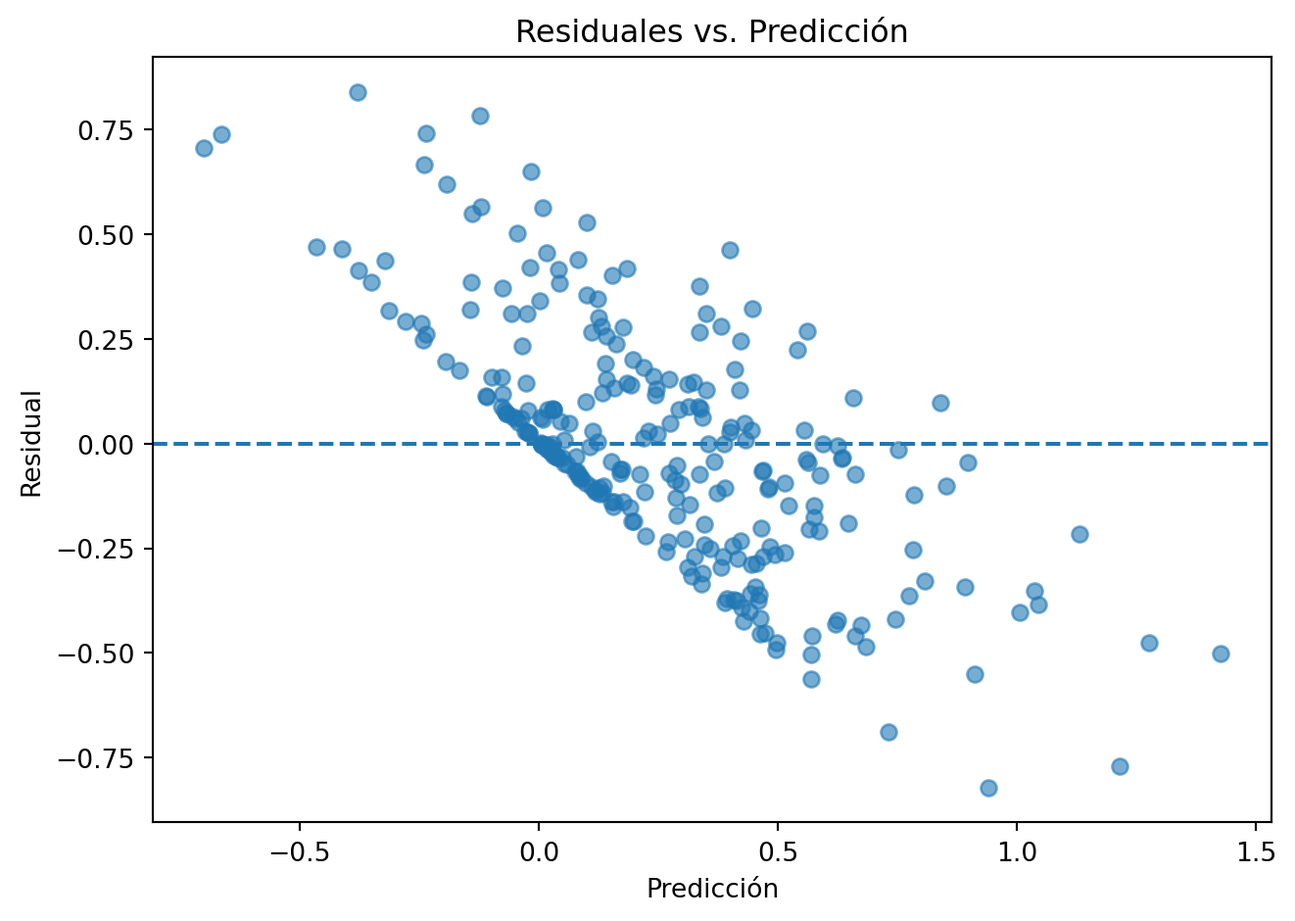
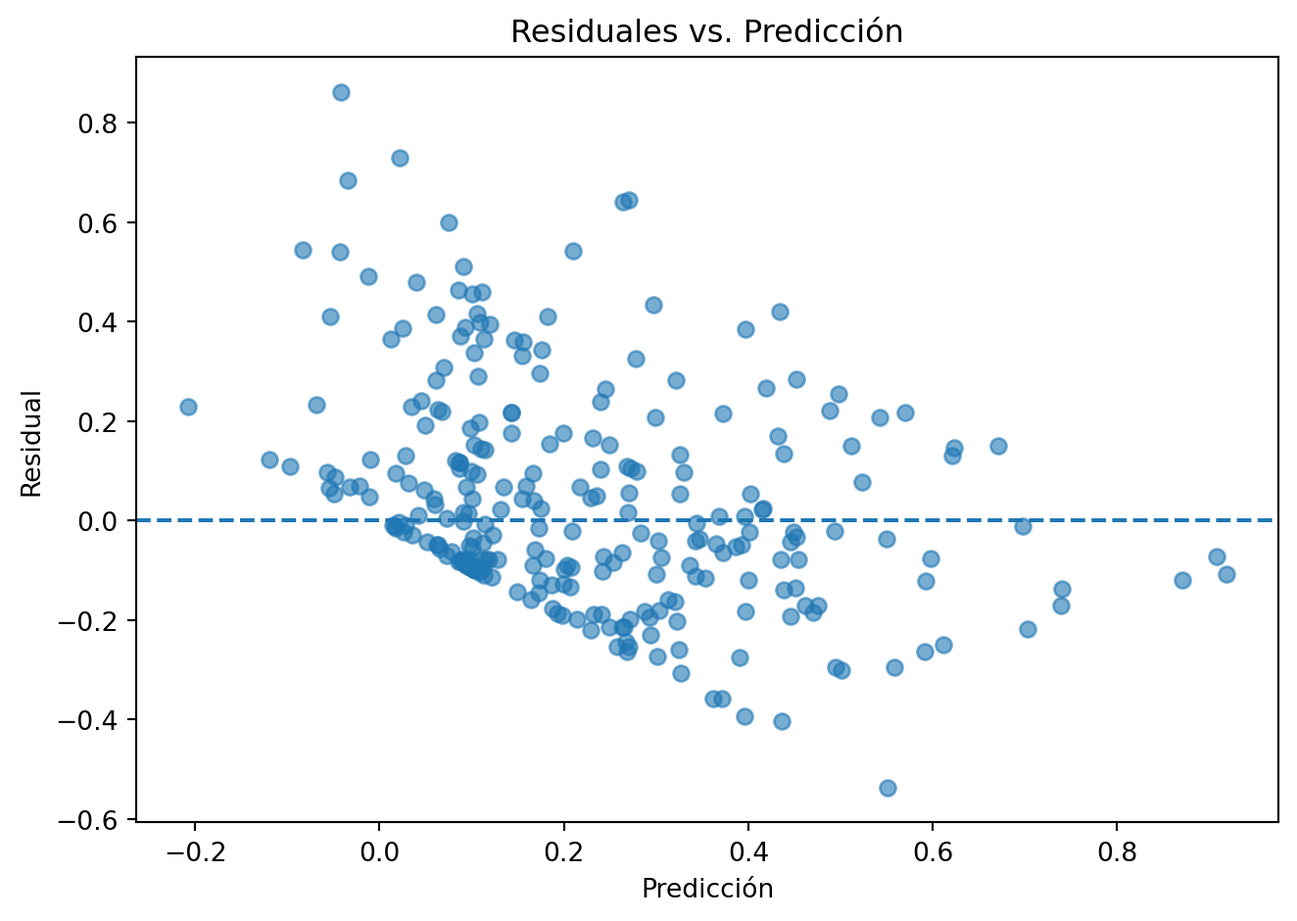
update_34

diff --git a/docs/Proyecto_final.html b/docs/Proyecto_final.html
@@ -210,7 +210,7 @@ pre > code.sourceCode > span > a:first-child::before { text-decoration: underlin
 
 <section id="preparación" class="level2" data-number="1">
 <h2 data-number="1" class="anchored" data-anchor-id="preparación"><span class="header-section-number">1</span> 0. Preparación</h2>
-<div id="1abc2dc2" class="cell" data-execution_count="1">
+<div id="241140bc" class="cell" data-execution_count="1">
 <details class="code-fold">
 <summary>Code</summary>
 <div class="code-copy-outer-scaffold"><div class="sourceCode cell-code" id="cb1"><pre class="sourceCode python code-with-copy"><code class="sourceCode python"><span id="cb1-1"><a href="#cb1-1" aria-hidden="true" tabindex="-1"></a><span class="im">import</span> pandas <span class="im">as</span> pd</span>
@@ -412,7 +412,7 @@ pre > code.sourceCode > span > a:first-child::before { text-decoration: underlin
 </section>
 <section id="eda" class="level2" data-number="2">
 <h2 data-number="2" class="anchored" data-anchor-id="eda"><span class="header-section-number">2</span> 1. EDA</h2>
-<div id="8c51f03c" class="cell" data-execution_count="2">
+<div id="be42747b" class="cell" data-execution_count="2">
 <details class="code-fold">
 <summary>Code</summary>
 <div class="code-copy-outer-scaffold"><div class="sourceCode cell-code" id="cb2"><pre class="sourceCode python code-with-copy"><code class="sourceCode python"><span id="cb2-1"><a href="#cb2-1" aria-hidden="true" tabindex="-1"></a>df.info()</span></code></pre></div><button title="Copy to Clipboard" class="code-copy-button"><i class="bi"></i></button></div>
@@ -454,7 +454,7 @@ dtypes: bool(3), float64(3), int64(9), object(12)
 memory usage: 285.8+ KB</code></pre>
 </div>
 </div>
-<div id="54484ae1" class="cell" data-execution_count="3">
+<div id="3f65140b" class="cell" data-execution_count="3">
 <details class="code-fold">
 <summary>Code</summary>
 <div class="code-copy-outer-scaffold"><div class="sourceCode cell-code" id="cb4"><pre class="sourceCode python code-with-copy"><code class="sourceCode python"><span id="cb4-1"><a href="#cb4-1" aria-hidden="true" tabindex="-1"></a><span class="co"># Detectar tipos de columnas</span></span>
@@ -517,7 +517,7 @@ Variables de texto (3): ['tweetUrl', 'content', 'authorProfilePic']</code></pre>
 </div>
 </div>
 </div>
-<div id="34d2f2df" class="cell" data-execution_count="4">
+<div id="0ab4ebe2" class="cell" data-execution_count="4">
 <details class="code-fold">
 <summary>Code</summary>
 <div class="code-copy-outer-scaffold"><div class="sourceCode cell-code" id="cb6"><pre class="sourceCode python code-with-copy"><code class="sourceCode python"><span id="cb6-1"><a href="#cb6-1" aria-hidden="true" tabindex="-1"></a><span class="co"># Resumen numérico</span></span>
@@ -680,7 +680,7 @@ Variables de texto (3): ['tweetUrl', 'content', 'authorProfilePic']</code></pre>
 </div>
 </div>
 </div>
-<div id="804dab52" class="cell" data-execution_count="5">
+<div id="bc35c6a5" class="cell" data-execution_count="5">
 <details class="code-fold">
 <summary>Code</summary>
 <div class="code-copy-outer-scaffold"><div class="sourceCode cell-code" id="cb7"><pre class="sourceCode python code-with-copy"><code class="sourceCode python"><span id="cb7-1"><a href="#cb7-1" aria-hidden="true" tabindex="-1"></a>num_df <span class="op">=</span> df.select_dtypes(include<span class="op">=</span>[<span class="st">'number'</span>])</span>
@@ -703,7 +703,7 @@ Variables de texto (3): ['tweetUrl', 'content', 'authorProfilePic']</code></pre>
 </div>
 </div>
 </div>
-<div id="b8039f4a" class="cell" data-execution_count="6">
+<div id="49f20e15" class="cell" data-execution_count="6">
 <details class="code-fold">
 <summary>Code</summary>
 <div class="code-copy-outer-scaffold"><div class="sourceCode cell-code" id="cb9"><pre class="sourceCode python code-with-copy"><code class="sourceCode python"><span id="cb9-1"><a href="#cb9-1" aria-hidden="true" tabindex="-1"></a><span class="co"># Resumen categórico</span></span>
@@ -728,7 +728,7 @@ authorVerified            1
 dtype: int64</code></pre>
 </div>
 </div>
-<div id="9327a4af" class="cell" data-execution_count="7">
+<div id="6849961e" class="cell" data-execution_count="7">
 <details class="code-fold">
 <summary>Code</summary>
 <div class="code-copy-outer-scaffold"><div class="sourceCode cell-code" id="cb11"><pre class="sourceCode python code-with-copy"><code class="sourceCode python"><span id="cb11-1"><a href="#cb11-1" aria-hidden="true" tabindex="-1"></a><span class="co"># Nulos y duplicados</span></span>
@@ -805,7 +805,7 @@ dtype: int64</code></pre>
 </div>
 </div>
 </div>
-<div id="66e11ee1" class="cell" data-execution_count="8">
+<div id="f76263d0" class="cell" data-execution_count="8">
 <details class="code-fold">
 <summary>Code</summary>
 <div class="code-copy-outer-scaffold"><div class="sourceCode cell-code" id="cb12"><pre class="sourceCode python code-with-copy"><code class="sourceCode python"><span id="cb12-1"><a href="#cb12-1" aria-hidden="true" tabindex="-1"></a><span class="co"># Distribución toxicity_score</span></span>
@@ -838,7 +838,7 @@ max         0.939145
 Name: toxicity_score, dtype: float64</code></pre>
 </div>
 </div>
-<div id="a043acd2" class="cell" data-execution_count="9">
+<div id="dcdab2ea" class="cell" data-execution_count="9">
 <details class="code-fold">
 <summary>Code</summary>
 <div class="code-copy-outer-scaffold"><div class="sourceCode cell-code" id="cb14"><pre class="sourceCode python code-with-copy"><code class="sourceCode python"><span id="cb14-1"><a href="#cb14-1" aria-hidden="true" tabindex="-1"></a>plt.figure(figsize<span class="op">=</span>(<span class="dv">10</span>,<span class="dv">4</span>))</span>
@@ -858,7 +858,7 @@ Name: toxicity_score, dtype: float64</code></pre>
 </div>
 </div>
 </div>
-<div id="cc2e9da0" class="cell" data-execution_count="10">
+<div id="2a63daa7" class="cell" data-execution_count="10">
 <details class="code-fold">
 <summary>Code</summary>
 <div class="code-copy-outer-scaffold"><div class="sourceCode cell-code" id="cb15"><pre class="sourceCode python code-with-copy"><code class="sourceCode python"><span id="cb15-1"><a href="#cb15-1" aria-hidden="true" tabindex="-1"></a><span class="co"># Boxplots de numéricas clave</span></span>
@@ -874,7 +874,7 @@ Name: toxicity_score, dtype: float64</code></pre>
 </div>
 </div>
 </div>
-<div id="e978610c" class="cell" data-execution_count="11">
+<div id="38256565" class="cell" data-execution_count="11">
 <details class="code-fold">
 <summary>Code</summary>
 <div class="code-copy-outer-scaffold"><div class="sourceCode cell-code" id="cb16"><pre class="sourceCode python code-with-copy"><code class="sourceCode python"><span id="cb16-1"><a href="#cb16-1" aria-hidden="true" tabindex="-1"></a><span class="co"># Top hashtags y menciones</span></span>
@@ -1110,7 +1110,7 @@ Name: toxicity_score, dtype: float64</code></pre>
 </div>
 </div>
 </div>
-<div id="de4dd593" class="cell" data-execution_count="12">
+<div id="bb321c01" class="cell" data-execution_count="12">
 <details class="code-fold">
 <summary>Code</summary>
 <div class="code-copy-outer-scaffold"><div class="sourceCode cell-code" id="cb17"><pre class="sourceCode python code-with-copy"><code class="sourceCode python"><span id="cb17-1"><a href="#cb17-1" aria-hidden="true" tabindex="-1"></a><span class="co"># Conteo de Variables categóricas</span></span>
@@ -1168,7 +1168,7 @@ Name: toxicity_score, dtype: float64</code></pre>
 </div>
 </div>
 </div>
-<div id="5f10bc22" class="cell" data-execution_count="13">
+<div id="4f65a1f2" class="cell" data-execution_count="13">
 <details class="code-fold">
 <summary>Code</summary>
 <div class="code-copy-outer-scaffold"><div class="sourceCode cell-code" id="cb18"><pre class="sourceCode python code-with-copy"><code class="sourceCode python"><span id="cb18-1"><a href="#cb18-1" aria-hidden="true" tabindex="-1"></a><span class="co"># Detectar variable de texto</span></span>
@@ -1286,7 +1286,7 @@ Name: toxicity_score, dtype: float64</code></pre>
 </div>
 </div>
 </div>
-<div id="bae45d1a" class="cell" data-execution_count="14">
+<div id="15821510" class="cell" data-execution_count="14">
 <details class="code-fold">
 <summary>Code</summary>
 <div class="code-copy-outer-scaffold"><div class="sourceCode cell-code" id="cb19"><pre class="sourceCode python code-with-copy"><code class="sourceCode python"><span id="cb19-1"><a href="#cb19-1" aria-hidden="true" tabindex="-1"></a><span class="co">#Correlación de las variables numéricas</span></span>
@@ -1331,7 +1331,7 @@ Name: toxicity_score, dtype: float64</code></pre>
 </div>
 </div>
 <p><strong>Hallazgos clave (EDA):</strong></p>
-<div id="d177d8af" class="cell" data-execution_count="15">
+<div id="f29b85cc" class="cell" data-execution_count="15">
 <details class="code-fold">
 <summary>Code</summary>
 <div class="code-copy-outer-scaffold"><div class="sourceCode cell-code" id="cb21"><pre class="sourceCode python code-with-copy"><code class="sourceCode python"><span id="cb21-1"><a href="#cb21-1" aria-hidden="true" tabindex="-1"></a><span class="bu">print</span>(<span class="st">"DISTRIBUCIÓN DE LOS DATOS:"</span>)</span>
@@ -1367,7 +1367,7 @@ Concentración de polaridad y relación preliminar con la toxicidad.</code></pre
 </section>
 <section id="preprocesamiento-y-codificación" class="level2" data-number="3">
 <h2 data-number="3" class="anchored" data-anchor-id="preprocesamiento-y-codificación"><span class="header-section-number">3</span> 2. Preprocesamiento y codificación</h2>
-<div id="c8acefb7" class="cell" data-execution_count="16">
+<div id="9154a666" class="cell" data-execution_count="16">
 <details class="code-fold">
 <summary>Code</summary>
 <div class="code-copy-outer-scaffold"><div class="sourceCode cell-code" id="cb23"><pre class="sourceCode python code-with-copy"><code class="sourceCode python"><span id="cb23-1"><a href="#cb23-1" aria-hidden="true" tabindex="-1"></a>df_procesado <span class="op">=</span> df[[<span class="st">'content'</span>, <span class="st">'toxicity_score'</span>]].copy()</span>
@@ -1449,32 +1449,38 @@ Concentración de polaridad y relación preliminar con la toxicidad.</code></pre
 [1347 rows x 4 columns]</code></pre>
 </div>
 </div>
-<div id="818a579b" class="cell" data-execution_count="17">
+<div id="5c2bbd9a" class="cell" data-execution_count="17">
 <details class="code-fold">
 <summary>Code</summary>
-<div class="code-copy-outer-scaffold"><div class="sourceCode cell-code" id="cb25"><pre class="sourceCode python code-with-copy"><code class="sourceCode python"><span id="cb25-1"><a href="#cb25-1" aria-hidden="true" tabindex="-1"></a>text_col <span class="op">=</span> <span class="st">"content"</span></span>
+<div class="code-copy-outer-scaffold"><div class="sourceCode cell-code" id="cb25"><pre class="sourceCode python code-with-copy"><code class="sourceCode python"><span id="cb25-1"><a href="#cb25-1" aria-hidden="true" tabindex="-1"></a>text_col <span class="op">=</span> <span class="st">"text_processed"</span></span>
 <span id="cb25-2"><a href="#cb25-2" aria-hidden="true" tabindex="-1"></a>num_cols <span class="op">=</span> [<span class="st">"authorFollowers"</span>, <span class="st">"account_age_days"</span>, <span class="st">"mentions_count"</span>, <span class="st">"hashtags_count"</span>, <span class="st">"content_length"</span>, <span class="st">"sentiment_polarity"</span>]</span>
 <span id="cb25-3"><a href="#cb25-3" aria-hidden="true" tabindex="-1"></a>cat_cols <span class="op">=</span> [<span class="st">"source"</span>, <span class="st">"has_profile_picture"</span>]</span>
 <span id="cb25-4"><a href="#cb25-4" aria-hidden="true" tabindex="-1"></a></span>
 <span id="cb25-5"><a href="#cb25-5" aria-hidden="true" tabindex="-1"></a><span class="co"># Subconjunto para modelado</span></span>
-<span id="cb25-6"><a href="#cb25-6" aria-hidden="true" tabindex="-1"></a>df_model <span class="op">=</span> df[[text_col, <span class="st">"toxicity_score"</span>] <span class="op">+</span> num_cols <span class="op">+</span> cat_cols].copy()</span>
+<span id="cb25-6"><a href="#cb25-6" aria-hidden="true" tabindex="-1"></a>df_model <span class="op">=</span> df[[<span class="st">"content"</span>, <span class="st">"toxicity_score"</span>] <span class="op">+</span> num_cols <span class="op">+</span> cat_cols].copy()</span>
 <span id="cb25-7"><a href="#cb25-7" aria-hidden="true" tabindex="-1"></a><span class="cf">for</span> c <span class="kw">in</span> num_cols:</span>
 <span id="cb25-8"><a href="#cb25-8" aria-hidden="true" tabindex="-1"></a>    df_model[c] <span class="op">=</span> pd.to_numeric(df_model[c], errors<span class="op">=</span><span class="st">"coerce"</span>)</span>
 <span id="cb25-9"><a href="#cb25-9" aria-hidden="true" tabindex="-1"></a><span class="cf">for</span> c <span class="kw">in</span> cat_cols:</span>
 <span id="cb25-10"><a href="#cb25-10" aria-hidden="true" tabindex="-1"></a>    df_model[c] <span class="op">=</span> df_model[c].astype(<span class="st">"category"</span>)</span>
-<span id="cb25-11"><a href="#cb25-11" aria-hidden="true" tabindex="-1"></a>df_model <span class="op">=</span> df_model.dropna(subset<span class="op">=</span>[text_col, <span class="st">"toxicity_score"</span>]).reset_index(drop<span class="op">=</span><span class="va">True</span>)</span>
+<span id="cb25-11"><a href="#cb25-11" aria-hidden="true" tabindex="-1"></a>df_model[<span class="st">"toxicity_score"</span>] <span class="op">=</span> pd.to_numeric(df_model[<span class="st">"toxicity_score"</span>], errors<span class="op">=</span><span class="st">"coerce"</span>)</span>
 <span id="cb25-12"><a href="#cb25-12" aria-hidden="true" tabindex="-1"></a></span>
-<span id="cb25-13"><a href="#cb25-13" aria-hidden="true" tabindex="-1"></a>X <span class="op">=</span> df_model[[text_col] <span class="op">+</span> num_cols <span class="op">+</span> cat_cols]</span>
-<span id="cb25-14"><a href="#cb25-14" aria-hidden="true" tabindex="-1"></a>y_cont <span class="op">=</span> df_model[<span class="st">"toxicity_score"</span>]</span>
+<span id="cb25-13"><a href="#cb25-13" aria-hidden="true" tabindex="-1"></a><span class="co"># Añadir la columna de texto procesado alineando por 'content'</span></span>
+<span id="cb25-14"><a href="#cb25-14" aria-hidden="true" tabindex="-1"></a>df_model <span class="op">=</span> df_model.merge(df_procesado[[<span class="st">"content"</span>, <span class="st">"text_processed"</span>]], on<span class="op">=</span><span class="st">"content"</span>, how<span class="op">=</span><span class="st">"left"</span>)</span>
 <span id="cb25-15"><a href="#cb25-15" aria-hidden="true" tabindex="-1"></a></span>
-<span id="cb25-16"><a href="#cb25-16" aria-hidden="true" tabindex="-1"></a>preprocessor <span class="op">=</span> ColumnTransformer(</span>
-<span id="cb25-17"><a href="#cb25-17" aria-hidden="true" tabindex="-1"></a>    transformers<span class="op">=</span>[</span>
-<span id="cb25-18"><a href="#cb25-18" aria-hidden="true" tabindex="-1"></a>        (<span class="st">"text"</span>, TfidfVectorizer(max_df<span class="op">=</span><span class="fl">0.9</span>, min_df<span class="op">=</span><span class="dv">5</span>, ngram_range<span class="op">=</span>(<span class="dv">1</span>,<span class="dv">2</span>), strip_accents<span class="op">=</span><span class="st">"unicode"</span>), text_col),</span>
-<span id="cb25-19"><a href="#cb25-19" aria-hidden="true" tabindex="-1"></a>        (<span class="st">"num"</span>, Pipeline([(<span class="st">"scaler"</span>, StandardScaler(with_mean<span class="op">=</span><span class="va">False</span>))]), num_cols),</span>
-<span id="cb25-20"><a href="#cb25-20" aria-hidden="true" tabindex="-1"></a>        (<span class="st">"cat"</span>, OneHotEncoder(handle_unknown<span class="op">=</span><span class="st">"ignore"</span>), cat_cols),</span>
-<span id="cb25-21"><a href="#cb25-21" aria-hidden="true" tabindex="-1"></a>    ]</span>
-<span id="cb25-22"><a href="#cb25-22" aria-hidden="true" tabindex="-1"></a>)</span>
-<span id="cb25-23"><a href="#cb25-23" aria-hidden="true" tabindex="-1"></a>preprocessor</span></code></pre></div><button title="Copy to Clipboard" class="code-copy-button"><i class="bi"></i></button></div>
+<span id="cb25-16"><a href="#cb25-16" aria-hidden="true" tabindex="-1"></a><span class="co"># Filtrar NAs en texto/target</span></span>
+<span id="cb25-17"><a href="#cb25-17" aria-hidden="true" tabindex="-1"></a>df_model <span class="op">=</span> df_model.dropna(subset<span class="op">=</span>[text_col, <span class="st">"toxicity_score"</span>]).reset_index(drop<span class="op">=</span><span class="va">True</span>)</span>
+<span id="cb25-18"><a href="#cb25-18" aria-hidden="true" tabindex="-1"></a></span>
+<span id="cb25-19"><a href="#cb25-19" aria-hidden="true" tabindex="-1"></a>X <span class="op">=</span> df_model[[text_col] <span class="op">+</span> num_cols <span class="op">+</span> cat_cols]</span>
+<span id="cb25-20"><a href="#cb25-20" aria-hidden="true" tabindex="-1"></a>y_cont <span class="op">=</span> df_model[<span class="st">"toxicity_score"</span>]</span>
+<span id="cb25-21"><a href="#cb25-21" aria-hidden="true" tabindex="-1"></a></span>
+<span id="cb25-22"><a href="#cb25-22" aria-hidden="true" tabindex="-1"></a>preprocessor <span class="op">=</span> ColumnTransformer(</span>
+<span id="cb25-23"><a href="#cb25-23" aria-hidden="true" tabindex="-1"></a>    transformers<span class="op">=</span>[</span>
+<span id="cb25-24"><a href="#cb25-24" aria-hidden="true" tabindex="-1"></a>        (<span class="st">"text"</span>, TfidfVectorizer(max_df<span class="op">=</span><span class="fl">0.9</span>, min_df<span class="op">=</span><span class="dv">5</span>, ngram_range<span class="op">=</span>(<span class="dv">1</span>,<span class="dv">2</span>), strip_accents<span class="op">=</span><span class="st">"unicode"</span>), text_col),</span>
+<span id="cb25-25"><a href="#cb25-25" aria-hidden="true" tabindex="-1"></a>        (<span class="st">"num"</span>, Pipeline([(<span class="st">"scaler"</span>, StandardScaler(with_mean<span class="op">=</span><span class="va">False</span>))]), num_cols),</span>
+<span id="cb25-26"><a href="#cb25-26" aria-hidden="true" tabindex="-1"></a>        (<span class="st">"cat"</span>, OneHotEncoder(handle_unknown<span class="op">=</span><span class="st">"ignore"</span>), cat_cols),</span>
+<span id="cb25-27"><a href="#cb25-27" aria-hidden="true" tabindex="-1"></a>    ]</span>
+<span id="cb25-28"><a href="#cb25-28" aria-hidden="true" tabindex="-1"></a>)</span>
+<span id="cb25-29"><a href="#cb25-29" aria-hidden="true" tabindex="-1"></a>preprocessor</span></code></pre></div><button title="Copy to Clipboard" class="code-copy-button"><i class="bi"></i></button></div>
 </details>
 <div class="cell-output cell-output-display" data-execution_count="17">
 <style>#sk-container-id-1 {
@@ -1958,7 +1964,7 @@ div.sk-label-container:hover .sk-estimator-doc-link.fitted:hover,
                                  TfidfVectorizer(max_df=0.9, min_df=5,
                                                  ngram_range=(1, 2),
                                                  strip_accents='unicode'),
-                                 'content'),
+                                 'text_processed'),
                                 ('num',
                                  Pipeline(steps=[('scaler',
                                                   StandardScaler(with_mean=False))]),
@@ -2018,7 +2024,7 @@ div.sk-label-container:hover .sk-estimator-doc-link.fitted:hover,
 
             </details>
         </div>
-    </div></div></div><div class="sk-parallel"><div class="sk-parallel-item"><div class="sk-item"><div class="sk-label-container"><div class="sk-label  sk-toggleable"><input class="sk-toggleable__control sk-hidden--visually" id="sk-estimator-id-2" type="checkbox"><label for="sk-estimator-id-2" class="sk-toggleable__label  sk-toggleable__label-arrow"><div><div>text</div></div></label><div class="sk-toggleable__content " data-param-prefix="text__"><pre>content</pre></div></div></div><div class="sk-serial"><div class="sk-item"><div class="sk-estimator  sk-toggleable"><input class="sk-toggleable__control sk-hidden--visually" id="sk-estimator-id-3" type="checkbox"><label for="sk-estimator-id-3" class="sk-toggleable__label  sk-toggleable__label-arrow"><div><div>TfidfVectorizer</div></div><div><a class="sk-estimator-doc-link " rel="noreferrer" target="_blank" href="https://scikit-learn.org/1.7/modules/generated/sklearn.feature_extraction.text.TfidfVectorizer.html">?<span>Documentation for TfidfVectorizer</span></a></div></label><div class="sk-toggleable__content " data-param-prefix="text__">
+    </div></div></div><div class="sk-parallel"><div class="sk-parallel-item"><div class="sk-item"><div class="sk-label-container"><div class="sk-label  sk-toggleable"><input class="sk-toggleable__control sk-hidden--visually" id="sk-estimator-id-2" type="checkbox"><label for="sk-estimator-id-2" class="sk-toggleable__label  sk-toggleable__label-arrow"><div><div>text</div></div></label><div class="sk-toggleable__content " data-param-prefix="text__"><pre>text_processed</pre></div></div></div><div class="sk-serial"><div class="sk-item"><div class="sk-estimator  sk-toggleable"><input class="sk-toggleable__control sk-hidden--visually" id="sk-estimator-id-3" type="checkbox"><label for="sk-estimator-id-3" class="sk-toggleable__label  sk-toggleable__label-arrow"><div><div>TfidfVectorizer</div></div><div><a class="sk-estimator-doc-link " rel="noreferrer" target="_blank" href="https://scikit-learn.org/1.7/modules/generated/sklearn.feature_extraction.text.TfidfVectorizer.html">?<span>Documentation for TfidfVectorizer</span></a></div></label><div class="sk-toggleable__content " data-param-prefix="text__">
         <div class="estimator-table">
             <details>
                 <summary>Parameters</summary>
@@ -2262,7 +2268,7 @@ document.querySelectorAll('.fa-regular.fa-copy').forEach(function(element) {
 </section>
 <section id="clasificación" class="level2" data-number="4">
 <h2 data-number="4" class="anchored" data-anchor-id="clasificación"><span class="header-section-number">4</span> 3. Clasificación</h2>
-<div id="df66c3cb" class="cell" data-execution_count="18">
+<div id="6f3ce828" class="cell" data-execution_count="18">
 <details class="code-fold">
 <summary>Code</summary>
 <div class="code-copy-outer-scaffold"><div class="sourceCode cell-code" id="cb26"><pre class="sourceCode python code-with-copy"><code class="sourceCode python"><span id="cb26-1"><a href="#cb26-1" aria-hidden="true" tabindex="-1"></a><span class="co"># Target binario con umbral 0.5 (puedes justificar 0.5 vs 0.7 en el informe)</span></span>
@@ -2286,14 +2292,14 @@ document.querySelectorAll('.fa-regular.fa-copy').forEach(function(element) {
 <span id="cb26-19"><a href="#cb26-19" aria-hidden="true" tabindex="-1"></a>metrics</span></code></pre></div><button title="Copy to Clipboard" class="code-copy-button"><i class="bi"></i></button></div>
 </details>
 <div class="cell-output cell-output-display" data-execution_count="18">
-<pre><code>{'accuracy': 0.774074074074074,
- 'precision': 0.4189189189189189,
- 'recall': 0.6326530612244898,
- 'f1': 0.5040650406504065,
- 'roc_auc': 0.7599039615846338}</code></pre>
+<pre><code>{'accuracy': 0.7717391304347826,
+ 'precision': 0.4,
+ 'recall': 0.5714285714285714,
+ 'f1': 0.47058823529411764,
+ 'roc_auc': 0.7595972309628697}</code></pre>
 </div>
 </div>
-<div id="de419b26" class="cell" data-execution_count="19">
+<div id="da3b3142" class="cell" data-execution_count="19">
 <details class="code-fold">
 <summary>Code</summary>
 <div class="code-copy-outer-scaffold"><div class="sourceCode cell-code" id="cb28"><pre class="sourceCode python code-with-copy"><code class="sourceCode python"><span id="cb28-1"><a href="#cb28-1" aria-hidden="true" tabindex="-1"></a>ConfusionMatrixDisplay.from_predictions(y_test, y_pred)</span>
@@ -2310,7 +2316,7 @@ document.querySelectorAll('.fa-regular.fa-copy').forEach(function(element) {
 </section>
 <section id="regresión" class="level2" data-number="5">
 <h2 data-number="5" class="anchored" data-anchor-id="regresión"><span class="header-section-number">5</span> 4. Regresión</h2>
-<div id="12c4c733" class="cell" data-execution_count="20">
+<div id="a6fb82f7" class="cell" data-execution_count="20">
 <details class="code-fold">
 <summary>Code</summary>
 <div class="code-copy-outer-scaffold"><div class="sourceCode cell-code" id="cb29"><pre class="sourceCode python code-with-copy"><code class="sourceCode python"><span id="cb29-1"><a href="#cb29-1" aria-hidden="true" tabindex="-1"></a>X_train_r, X_test_r, y_train_r, y_test_r <span class="op">=</span> train_test_split(X, y_cont, test_size<span class="op">=</span><span class="fl">0.2</span>, random_state<span class="op">=</span><span class="dv">42</span>)</span>
@@ -2327,10 +2333,10 @@ document.querySelectorAll('.fa-regular.fa-copy').forEach(function(element) {
 <span id="cb29-12"><a href="#cb29-12" aria-hidden="true" tabindex="-1"></a><span class="bu">print</span>(reg_metrics)</span></code></pre></div><button title="Copy to Clipboard" class="code-copy-button"><i class="bi"></i></button></div>
 </details>
 <div class="cell-output cell-output-stdout">
-<pre><code>{'MAE': 0.21562974252085007, 'RMSE': 0.08044637897153051, 'R2': -0.40250228465286586}</code></pre>
+<pre><code>{'MAE': 0.16806338609617444, 'RMSE': 0.049797216940050744, 'R2': 0.12122430945578111}</code></pre>
 </div>
 </div>
-<div id="e050cdea" class="cell" data-execution_count="21">
+<div id="2ce2eaa2" class="cell" data-execution_count="21">
 <details class="code-fold">
 <summary>Code</summary>
 <div class="code-copy-outer-scaffold"><div class="sourceCode cell-code" id="cb31"><pre class="sourceCode python code-with-copy"><code class="sourceCode python"><span id="cb31-1"><a href="#cb31-1" aria-hidden="true" tabindex="-1"></a>plt.scatter(y_test_r, y_pred_r, alpha<span class="op">=</span><span class="fl">0.6</span>)</span>
@@ -2350,7 +2356,7 @@ document.querySelectorAll('.fa-regular.fa-copy').forEach(function(element) {
 <div class="cell-output cell-output-display">
 <div>
 <figure class="figure">
-<p><img src="Proyecto_final_files/figure-html/cell-22-output-2.png" width="661" height="470" class="figure-img"></p>
+<p><img src="Proyecto_final_files/figure-html/cell-22-output-2.png" width="662" height="470" class="figure-img"></p>
 </figure>
 </div>
 </div>
@@ -2358,7 +2364,7 @@ document.querySelectorAll('.fa-regular.fa-copy').forEach(function(element) {
 </section>
 <section id="clustering" class="level2" data-number="6">
 <h2 data-number="6" class="anchored" data-anchor-id="clustering"><span class="header-section-number">6</span> 5. Clustering</h2>
-<div id="cb5d2442" class="cell" data-execution_count="22">
+<div id="dce8fb24" class="cell" data-execution_count="22">
 <details class="code-fold">
 <summary>Code</summary>
 <div class="code-copy-outer-scaffold"><div class="sourceCode cell-code" id="cb32"><pre class="sourceCode python code-with-copy"><code class="sourceCode python"><span id="cb32-1"><a href="#cb32-1" aria-hidden="true" tabindex="-1"></a>num_cols_cluster <span class="op">=</span> [<span class="st">"authorFollowers"</span>, <span class="st">"account_age_days"</span>, <span class="st">"mentions_count"</span>, <span class="st">"hashtags_count"</span>, <span class="st">"content_length"</span>, <span class="st">"sentiment_polarity"</span>, <span class="st">"toxicity_score"</span>]</span>
@@ -2387,7 +2393,7 @@ document.querySelectorAll('.fa-regular.fa-copy').forEach(function(element) {
  0.9985810886175137)</code></pre>
 </div>
 </div>
-<div id="f2d91fbd" class="cell" data-execution_count="23">
+<div id="5ebb4ff1" class="cell" data-execution_count="23">
 <details class="code-fold">
 <summary>Code</summary>
 <div class="code-copy-outer-scaffold"><div class="sourceCode cell-code" id="cb34"><pre class="sourceCode python code-with-copy"><code class="sourceCode python"><span id="cb34-1"><a href="#cb34-1" aria-hidden="true" tabindex="-1"></a>dfvis <span class="op">=</span> dfc.copy()</span>
